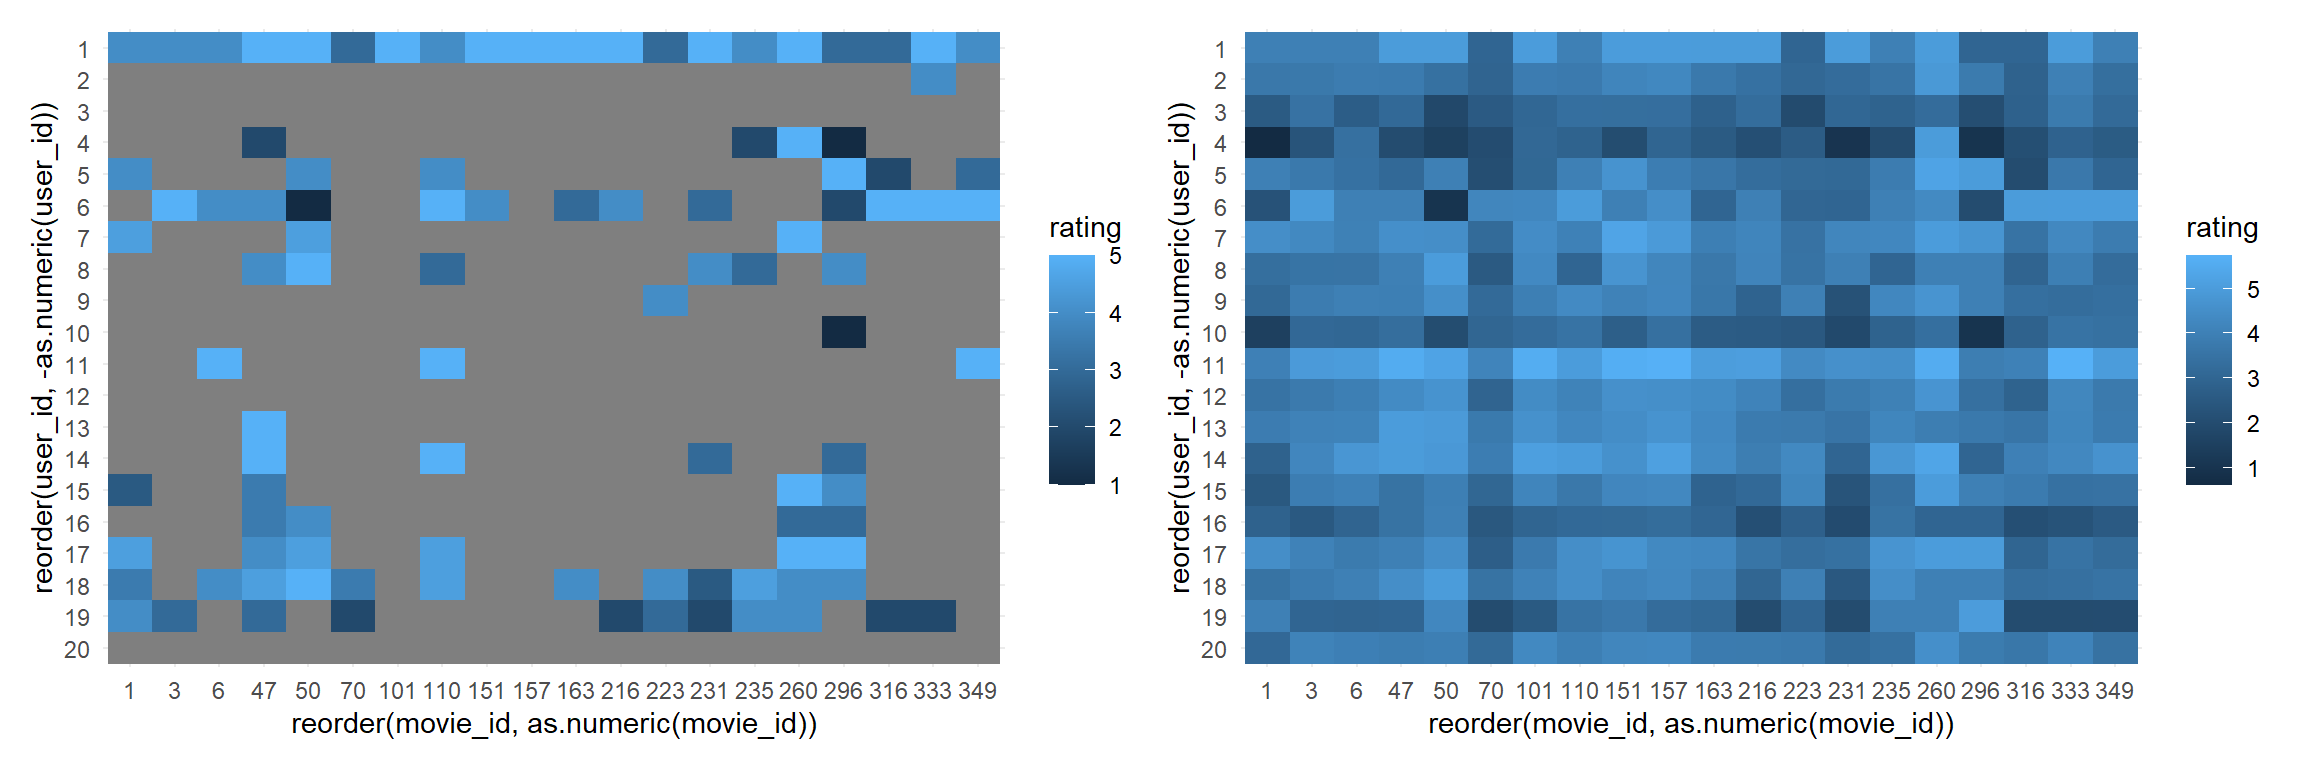
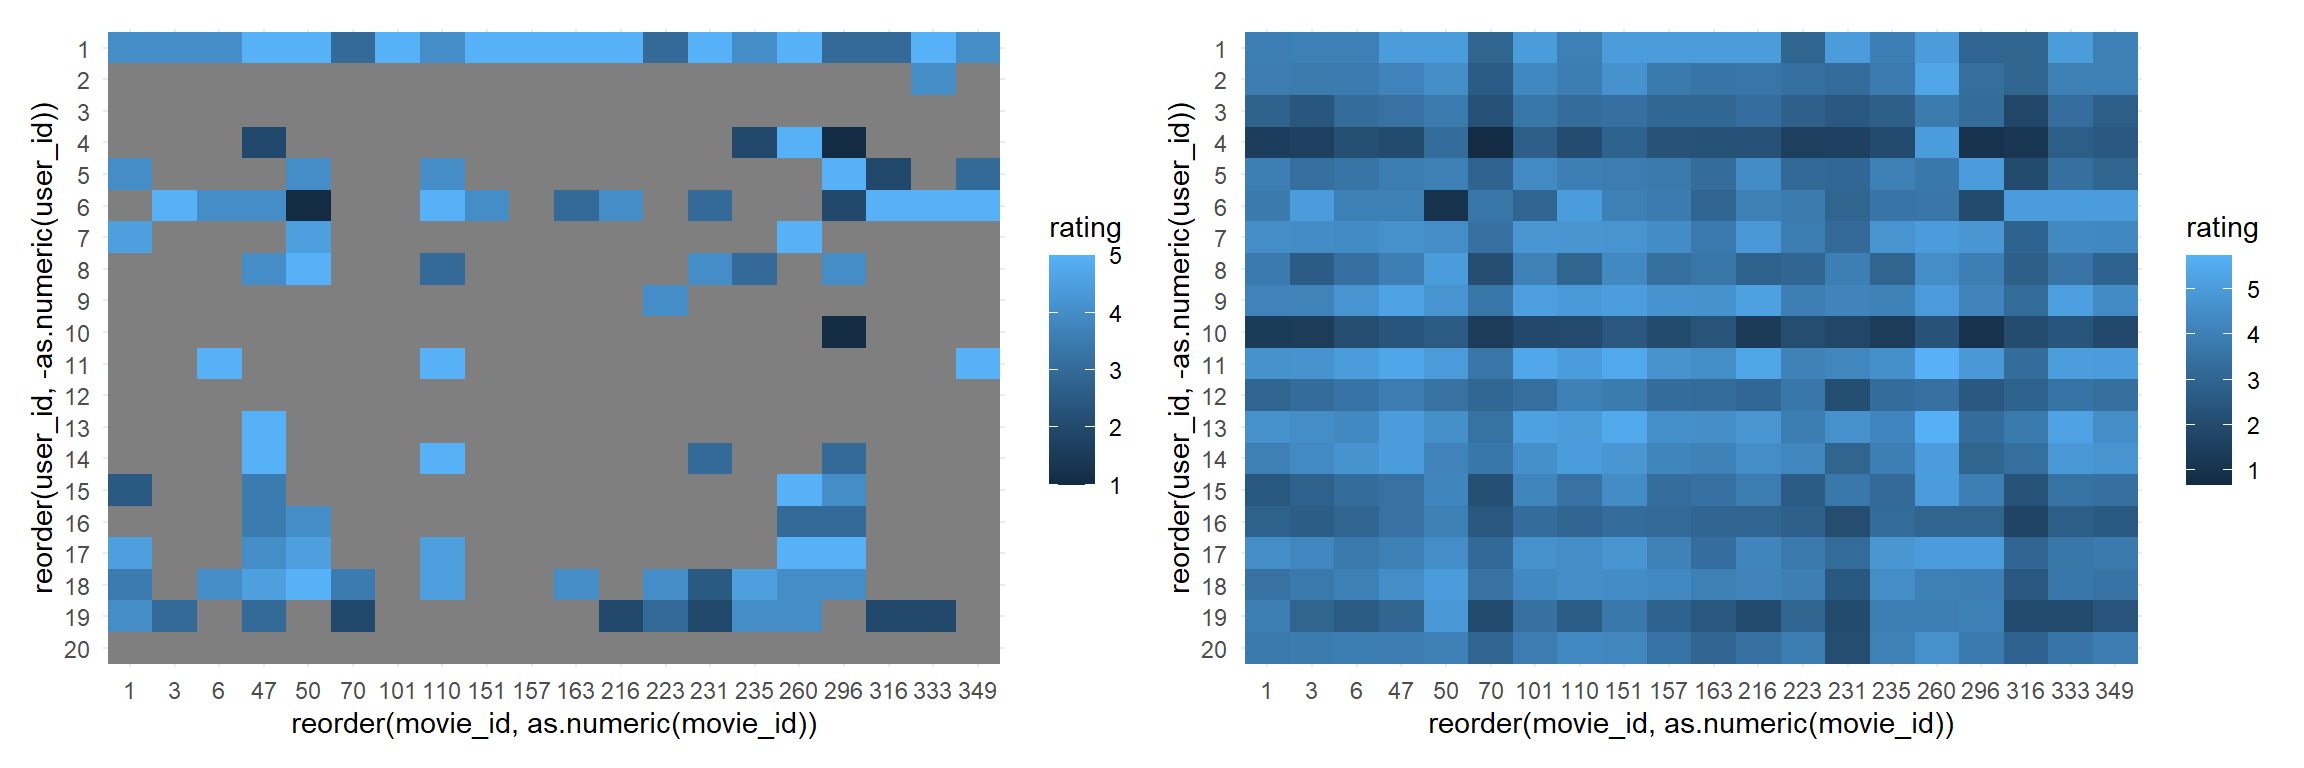
Modified _site.yml file. Included SVD.html.

diff --git a/SVD.html b/SVD.html
@@ -247,6 +247,18 @@ $(document).ready(function () {
         <li>
   <a href="Proposal.html">Proposal</a>
 </li>
+<li class="dropdown">
+  <a href="#" class="dropdown-toggle" data-toggle="dropdown" role="button" aria-expanded="false">
+    Recommendation Algorithm
+     
+    <span class="caret"></span>
+  </a>
+  <ul class="dropdown-menu" role="menu">
+    <li>
+      <a href="SVD.html">SVD</a>
+    </li>
+  </ul>
+</li>
       </ul>
       <ul class="nav navbar-nav navbar-right">
         <li>
@@ -302,7 +314,7 @@ library(patchwork)</code></pre>
 <div id="data-preparation" class="section level2">
 <h2>Data preparation</h2>
 <ul>
-<li>Due to the limitation of computing power, we only predict ratings for 20 users who gave most ratings and 20 movies which received most ratings.</li>
+<li>Due to the limitation of computing power, we only predict ratings for the first 20 users and the first 20 movies in the dataset.</li>
 </ul>
 <pre class="r"><code>data_path = &quot;./data/small/ratings.csv&quot;
 
@@ -335,6 +347,8 @@ rating_matrix = rating_matrix[users, movies]</code></pre>
 <pre class="r"><code>funk_svd = function(R, K, max_iter, alpha, lambda){
     M = nrow(R)
     N = ncol(R)
+    
+    set.seed(7)
     
     P = matrix(runif(M*K), nrow = M)
     Q = matrix(runif(N*K), nrow = N) %&gt;% t()

diff --git a/Exploratory-Analyses.html b/Exploratory-Analyses.html
@@ -246,6 +246,18 @@ $(document).ready(function () {
         <li>
   <a href="Proposal.html">Proposal</a>
 </li>
+<li class="dropdown">
+  <a href="#" class="dropdown-toggle" data-toggle="dropdown" role="button" aria-expanded="false">
+    Recommendation Algorithm
+     
+    <span class="caret"></span>
+  </a>
+  <ul class="dropdown-menu" role="menu">
+    <li>
+      <a href="SVD.html">SVD</a>
+    </li>
+  </ul>
+</li>
       </ul>
       <ul class="nav navbar-nav navbar-right">
         <li>

diff --git a/index.html b/index.html
@@ -246,6 +246,18 @@ $(document).ready(function () {
         <li>
   <a href="Proposal.html">Proposal</a>
 </li>
+<li class="dropdown">
+  <a href="#" class="dropdown-toggle" data-toggle="dropdown" role="button" aria-expanded="false">
+    Recommendation Algorithm
+     
+    <span class="caret"></span>
+  </a>
+  <ul class="dropdown-menu" role="menu">
+    <li>
+      <a href="SVD.html">SVD</a>
+    </li>
+  </ul>
+</li>
       </ul>
       <ul class="nav navbar-nav navbar-right">
         <li>

diff --git a/Proposal.html b/Proposal.html
@@ -325,6 +325,18 @@ div.tocify {
         <li>
   <a href="Proposal.html">Proposal</a>
 </li>
+<li class="dropdown">
+  <a href="#" class="dropdown-toggle" data-toggle="dropdown" role="button" aria-expanded="false">
+    Recommendation Algorithm
+     
+    <span class="caret"></span>
+  </a>
+  <ul class="dropdown-menu" role="menu">
+    <li>
+      <a href="SVD.html">SVD</a>
+    </li>
+  </ul>
+</li>
       </ul>
       <ul class="nav navbar-nav navbar-right">
         <li>
